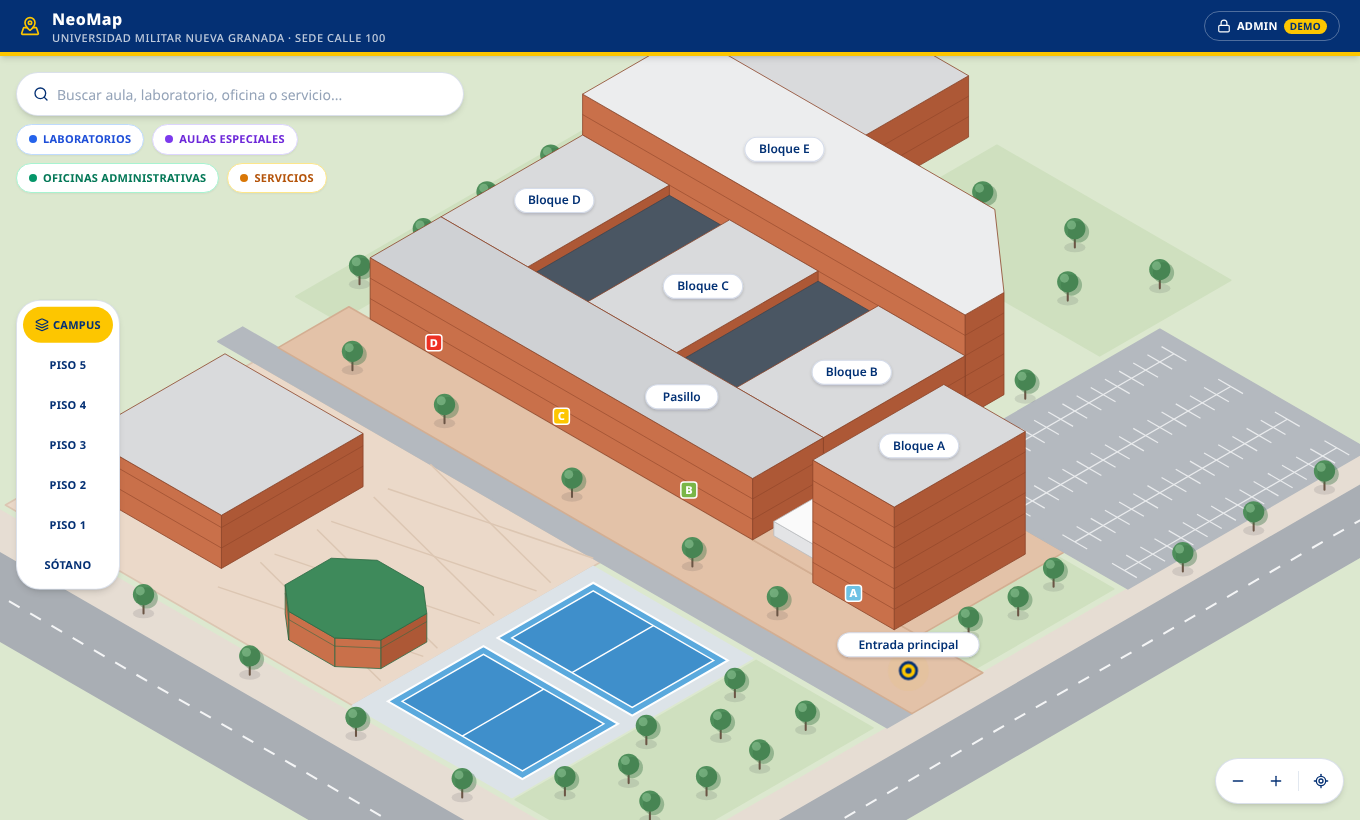
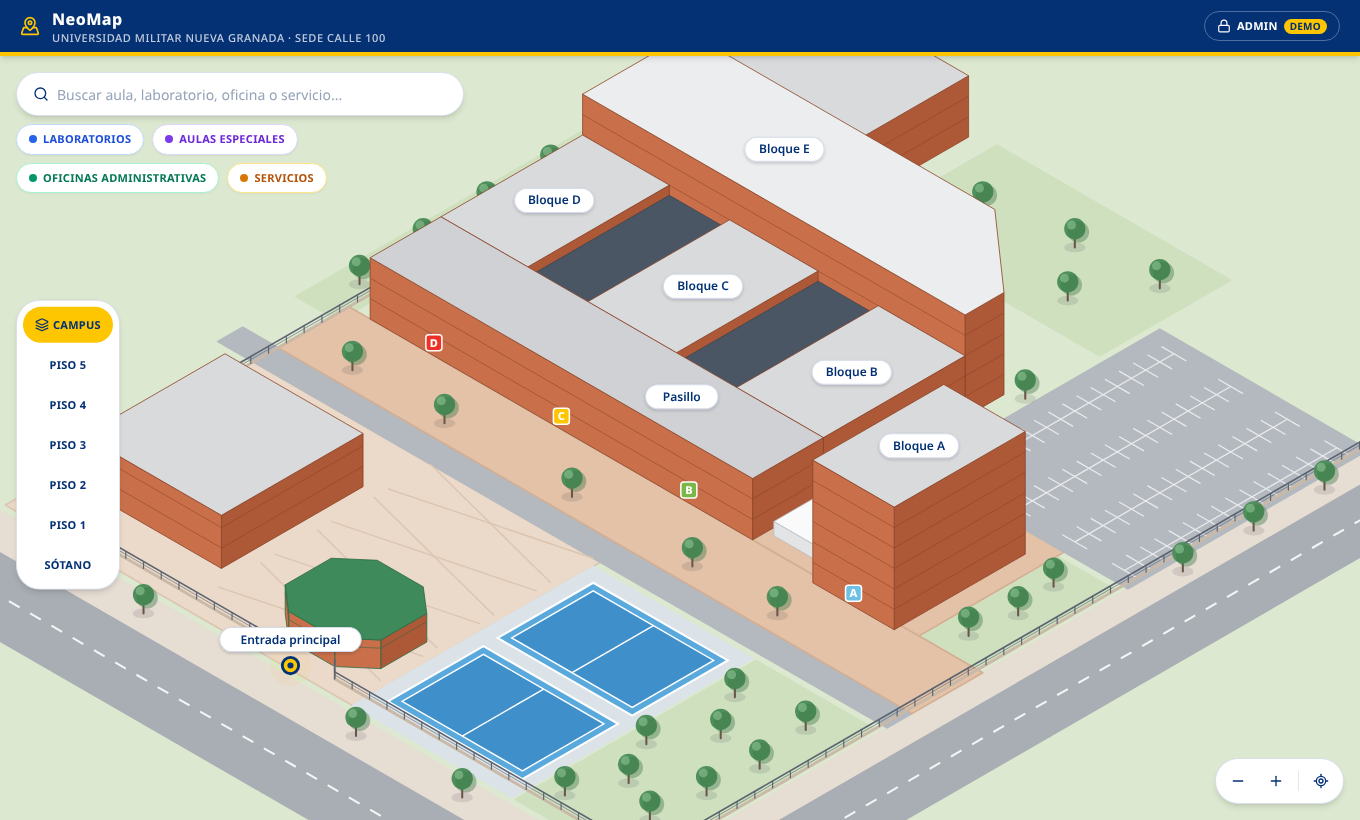
Ubicar la Entrada Principal en la portería octogonal y cercar el perímetro
Las rutas parten del acceso sobre la avenida occidental, cruzan la
portería de cubierta verde y la plazoleta hasta el acceso de cada bloque.
Se dibuja el cerramiento perimetral, interrumpido solo por la portería.

Claude-Session: https://claude.ai/code/session_013k9deS6gNaQ8RK4YwJB49U

diff --git a/src/components/map/CampusMap.tsx b/src/components/map/CampusMap.tsx
@@ -13,6 +13,8 @@ import {
   ARBOLES_FONDO,
   ARBOLES_FRENTE,
   CANCHAS,
+  CERCA_FONDO,
+  CERCA_FRENTE,
   COMPLEJO,
   EDIFICIOS,
   ENTRADA,
@@ -89,6 +91,7 @@ interface Cam {
 const BOUNDS = (() => {
   const pts = [
     isoToScreen(-58, 11),
+    isoToScreen(-74, 84),
     isoToScreen(-66, 146),
     isoToScreen(17, 182),
     isoToScreen(124, 172),
@@ -204,6 +207,36 @@ function linea(a: Pt, b: Pt): { x1: number; y1: number; x2: number; y2: number }
   const p = isoToScreen(a[0], a[1], 0);
   const q = isoToScreen(b[0], b[1], 0);
   return { x1: p.x, y1: p.y, x2: q.x, y2: q.y };
+}
+
+/** Cerramiento: baranda sobre postes a lo largo de un trazado de planta. */
+function Cerca({ tramos }: { tramos: Pt[][] }) {
+  const alto = 1.7;
+  return (
+    <g pointerEvents="none" stroke="#5B6470" strokeLinecap="round" fill="none">
+      {tramos.map((tramo, i) => {
+        const postes: Pt[] = [];
+        for (let j = 0; j < tramo.length - 1; j++) {
+          const [ax, ay] = tramo[j];
+          const [bx, by] = tramo[j + 1];
+          const n = Math.max(1, Math.round(Math.hypot(bx - ax, by - ay) / 5));
+          for (let k = 0; k <= n; k++) postes.push([ax + ((bx - ax) * k) / n, ay + ((by - ay) * k) / n]);
+        }
+        return (
+          <g key={i}>
+            <polyline points={pointsAttr(tramo, 0)} stroke="#C9B9A6" strokeWidth={0.7} />
+            {postes.map(([x, y], k) => {
+              const p = isoToScreen(x, y, 0);
+              const q = isoToScreen(x, y, alto);
+              return <line key={k} x1={p.x} y1={p.y} x2={q.x} y2={q.y} strokeWidth={0.28} />;
+            })}
+            <polyline points={pointsAttr(tramo, alto)} strokeWidth={0.4} />
+            <polyline points={pointsAttr(tramo, alto * 0.55)} strokeWidth={0.22} opacity={0.7} />
+          </g>
+        );
+      })}
+    </g>
+  );
 }
 
 /** Superficies del entorno: vías, plazoletas, canchas y parqueadero. */
@@ -577,6 +610,7 @@ const CampusMap = forwardRef<CampusMapHandle, Props>(function CampusMap(
               </g>
             )}
 
+            <Cerca tramos={CERCA_FONDO} />
             {ARBOLES_FONDO.map(([x, y]) => (
               <Tree key={`${x}-${y}`} x={x} y={y} />
             ))}
@@ -635,6 +669,7 @@ const CampusMap = forwardRef<CampusMapHandle, Props>(function CampusMap(
                 (e) => <StairSymbol key={e.id} x={e.x} y={e.y} len={e.len} z={floorZ} />,
               )}
 
+            <Cerca tramos={CERCA_FRENTE} />
             {ARBOLES_FRENTE.map(([x, y]) => (
               <Tree key={`${x}-${y}`} x={x} y={y} />
             ))}

diff --git a/src/data/campus.ts b/src/data/campus.ts
@@ -7,7 +7,8 @@ import type { BloqueId, Piso } from '../lib/types';
  * El complejo principal es una barra frontal (el Pasillo) sobre la plazoleta
  * occidental, tres alas perpendiculares (D, C y B, de norte a sur) separadas por
  * patios cubiertos y la barra oriental (E) con su esquina achaflanada. El
- * Bloque A es la torre aislada al sur, junto a la Entrada Principal.
+ * Bloque A es la torre aislada al sur. La Entrada Principal es la portería
+ * octogonal de cubierta verde, sobre la avenida occidental.
  *
  * pisos.pdf dibuja el complejo comprimido en el eje norte-sur; `pdfY` lleva
  * sus medidas a la proporción real.
@@ -84,14 +85,44 @@ const HUELLA_E: Pt[] = aReal([
 ]);
 const HUELLA_A: Pt[] = rect(25, 137, 62, 160);
 
-/** Origen de todas las rutas, sobre la plazoleta frontal junto al Bloque A. */
-export const ENTRADA: Pt = [17, 172];
+/**
+ * Origen de todas las rutas: el acceso peatonal sobre la avenida occidental,
+ * que atraviesa la portería octogonal de cubierta verde.
+ */
+export const ENTRADA: Pt = [-69, 83.5];
+
+/** Eje de la plazoleta frontal, por donde se camina hacia los accesos de cada bloque. */
+export const PLAZA_FRONTAL_X = 17;
+
+/**
+ * Cerramiento perimetral. La portería octogonal interrumpe el tramo occidental
+ * y es el único paso.
+ */
+export const CERCA_FONDO: Pt[][] = [
+  [
+    [-66, 4],
+    [160, 4],
+  ],
+];
+export const CERCA_FRENTE: Pt[][] = [
+  [
+    [-66, 4],
+    [-66, 74],
+    [-63, 77],
+  ],
+  [
+    [-63, 90],
+    [-66, 93],
+    [-66, 181.5],
+    [160, 181.5],
+  ],
+];
 
 export const BLOQUES: Bloque[] = [
   {
     id: 'A',
     nombre: 'Bloque A',
-    descripcion: 'Torre junto a la Entrada Principal; incluye el espacio Scale Up A.',
+    descripcion: 'Torre al sur del complejo principal; incluye el espacio Scale Up A.',
     pisos: ['Piso 1', 'Piso 2'],
     zona: 'frontal',
     parts: [{ id: 'A', nombre: 'Bloque A', poly: HUELLA_A }],
@@ -529,7 +560,6 @@ export const ARBOLES_FRENTE: Pt[] = [
   // Andén occidental
   [-77, 20],
   [-77, 50],
-  [-77, 80],
   [-77, 110],
   [-77, 140],
   [-77, 170],

diff --git a/src/lib/route.ts b/src/lib/route.ts
@@ -1,4 +1,4 @@
-import { ENTRADA, pdfY } from '../data/campus';
+import { ENTRADA, PLAZA_FRONTAL_X, pdfY } from '../data/campus';
 import { FLOOR_H, type WorldPt } from './iso';
 import { PISO_LEVEL, type Espacio } from './types';
 
@@ -10,7 +10,7 @@ export interface Ruta {
 }
 
 /** Ejes de circulación, en coordenadas de planta. */
-const PLAZA_X = ENTRADA[0];
+const PLAZA_X = PLAZA_FRONTAL_X;
 const PASILLO_X = 42;
 const CORREDOR_Y = { D: pdfY(20), C: pdfY(40), B: pdfY(60) } as const;
 const CORREDOR_E_X = 102;
@@ -22,7 +22,7 @@ const ESCALERA_A_X = 28;
 
 /**
  * Ruta general y fija desde la Entrada Principal hasta el bloque y piso del
- * espacio (sin navegación interior detallada): avanza por la plazoleta frontal,
+ * espacio (sin navegación interior detallada): cruza la portería, avanza por la plazoleta frontal,
  * entra por el acceso del bloque, sube o baja por el núcleo de escaleras más
  * cercano y termina en el pin del espacio.
  */
@@ -39,6 +39,8 @@ export function buildRoute(espacio: Espacio): Ruta {
   };
 
   add(ENTRADA[0], ENTRADA[1], 0);
+  // Cruza la portería y la plazoleta occidental hasta la plazoleta frontal.
+  add(PLAZA_X, ENTRADA[1], 0);
 
   if (espacio.bloque_id === 'A') {
     add(PLAZA_X, CORREDOR_A_Y, 0);

diff --git a/README.md b/README.md
@@ -74,11 +74,11 @@ Todo el mapa se dibuja por código (`src/lib/iso.ts` + `src/data/campus.ts`); no
 ## Diseño
 
 - **Interfaz:** sigue la identidad de [umng.edu.co](https://umng.edu.co): azul `#043074`, amarillo `#FDC600`, tipografía Noto Sans y botones tipo píldora en mayúsculas. Los colores están en `tailwind.config.js` bajo `umng`.
-- **Mapa:** la implantación sigue la vista aérea de la sede. El complejo principal es una barra frontal (el Pasillo, con los accesos D, C y B), tres alas separadas por patios cubiertos y la barra oriental del Bloque E; el Bloque A es la torre al sur. Alrededor se dibujan la plazoleta, las canchas, el parqueadero y las vías como contexto. Los edificios usan ladrillo y cubiertas grises, sin ventanas ni detalle de fachada.
+- **Mapa:** la implantación sigue la vista aérea de la sede. El complejo principal es una barra frontal (el Pasillo, con los accesos D, C y B), tres alas separadas por patios cubiertos y la barra oriental del Bloque E; el Bloque A es la torre al sur. La Entrada Principal es la portería octogonal de cubierta verde sobre la avenida occidental, único paso del cerramiento perimetral. Alrededor se dibujan la plazoleta, las canchas, el parqueadero y las vías como contexto. Los edificios usan ladrillo y cubiertas grises, sin ventanas ni detalle de fachada.
 - **Pisos:** `pisos.pdf` dibuja el complejo comprimido en sentido norte-sur. `pdfY()` en `src/data/campus.ts` lleva esas medidas a la proporción real, así que las zonas y el catálogo se pueden seguir digitando con las medidas del PDF.
 
 ## Alcance del catálogo
 
 El catálogo semilla (54 espacios) sigue el Project Charter: laboratorios, aulas especiales, oficinas administrativas y servicios. Quedan fuera salones regulares, auditorios, salas de profesores, tiendas/cafeterías y zonas comunes; sus salas sí aparecen dibujadas y rotuladas en el corte de cada piso, pero sin pin ni ficha. Cualquier espacio se puede agregar después desde el panel.
 
-Las rutas son generales y fijas (Entrada Principal → Pasillo → escaleras → bloque y piso), sin navegación interior detallada ni geolocalización.
+Las rutas son generales y fijas (Entrada Principal → plazoleta → acceso del bloque → escaleras → piso), sin navegación interior detallada ni geolocalización.
